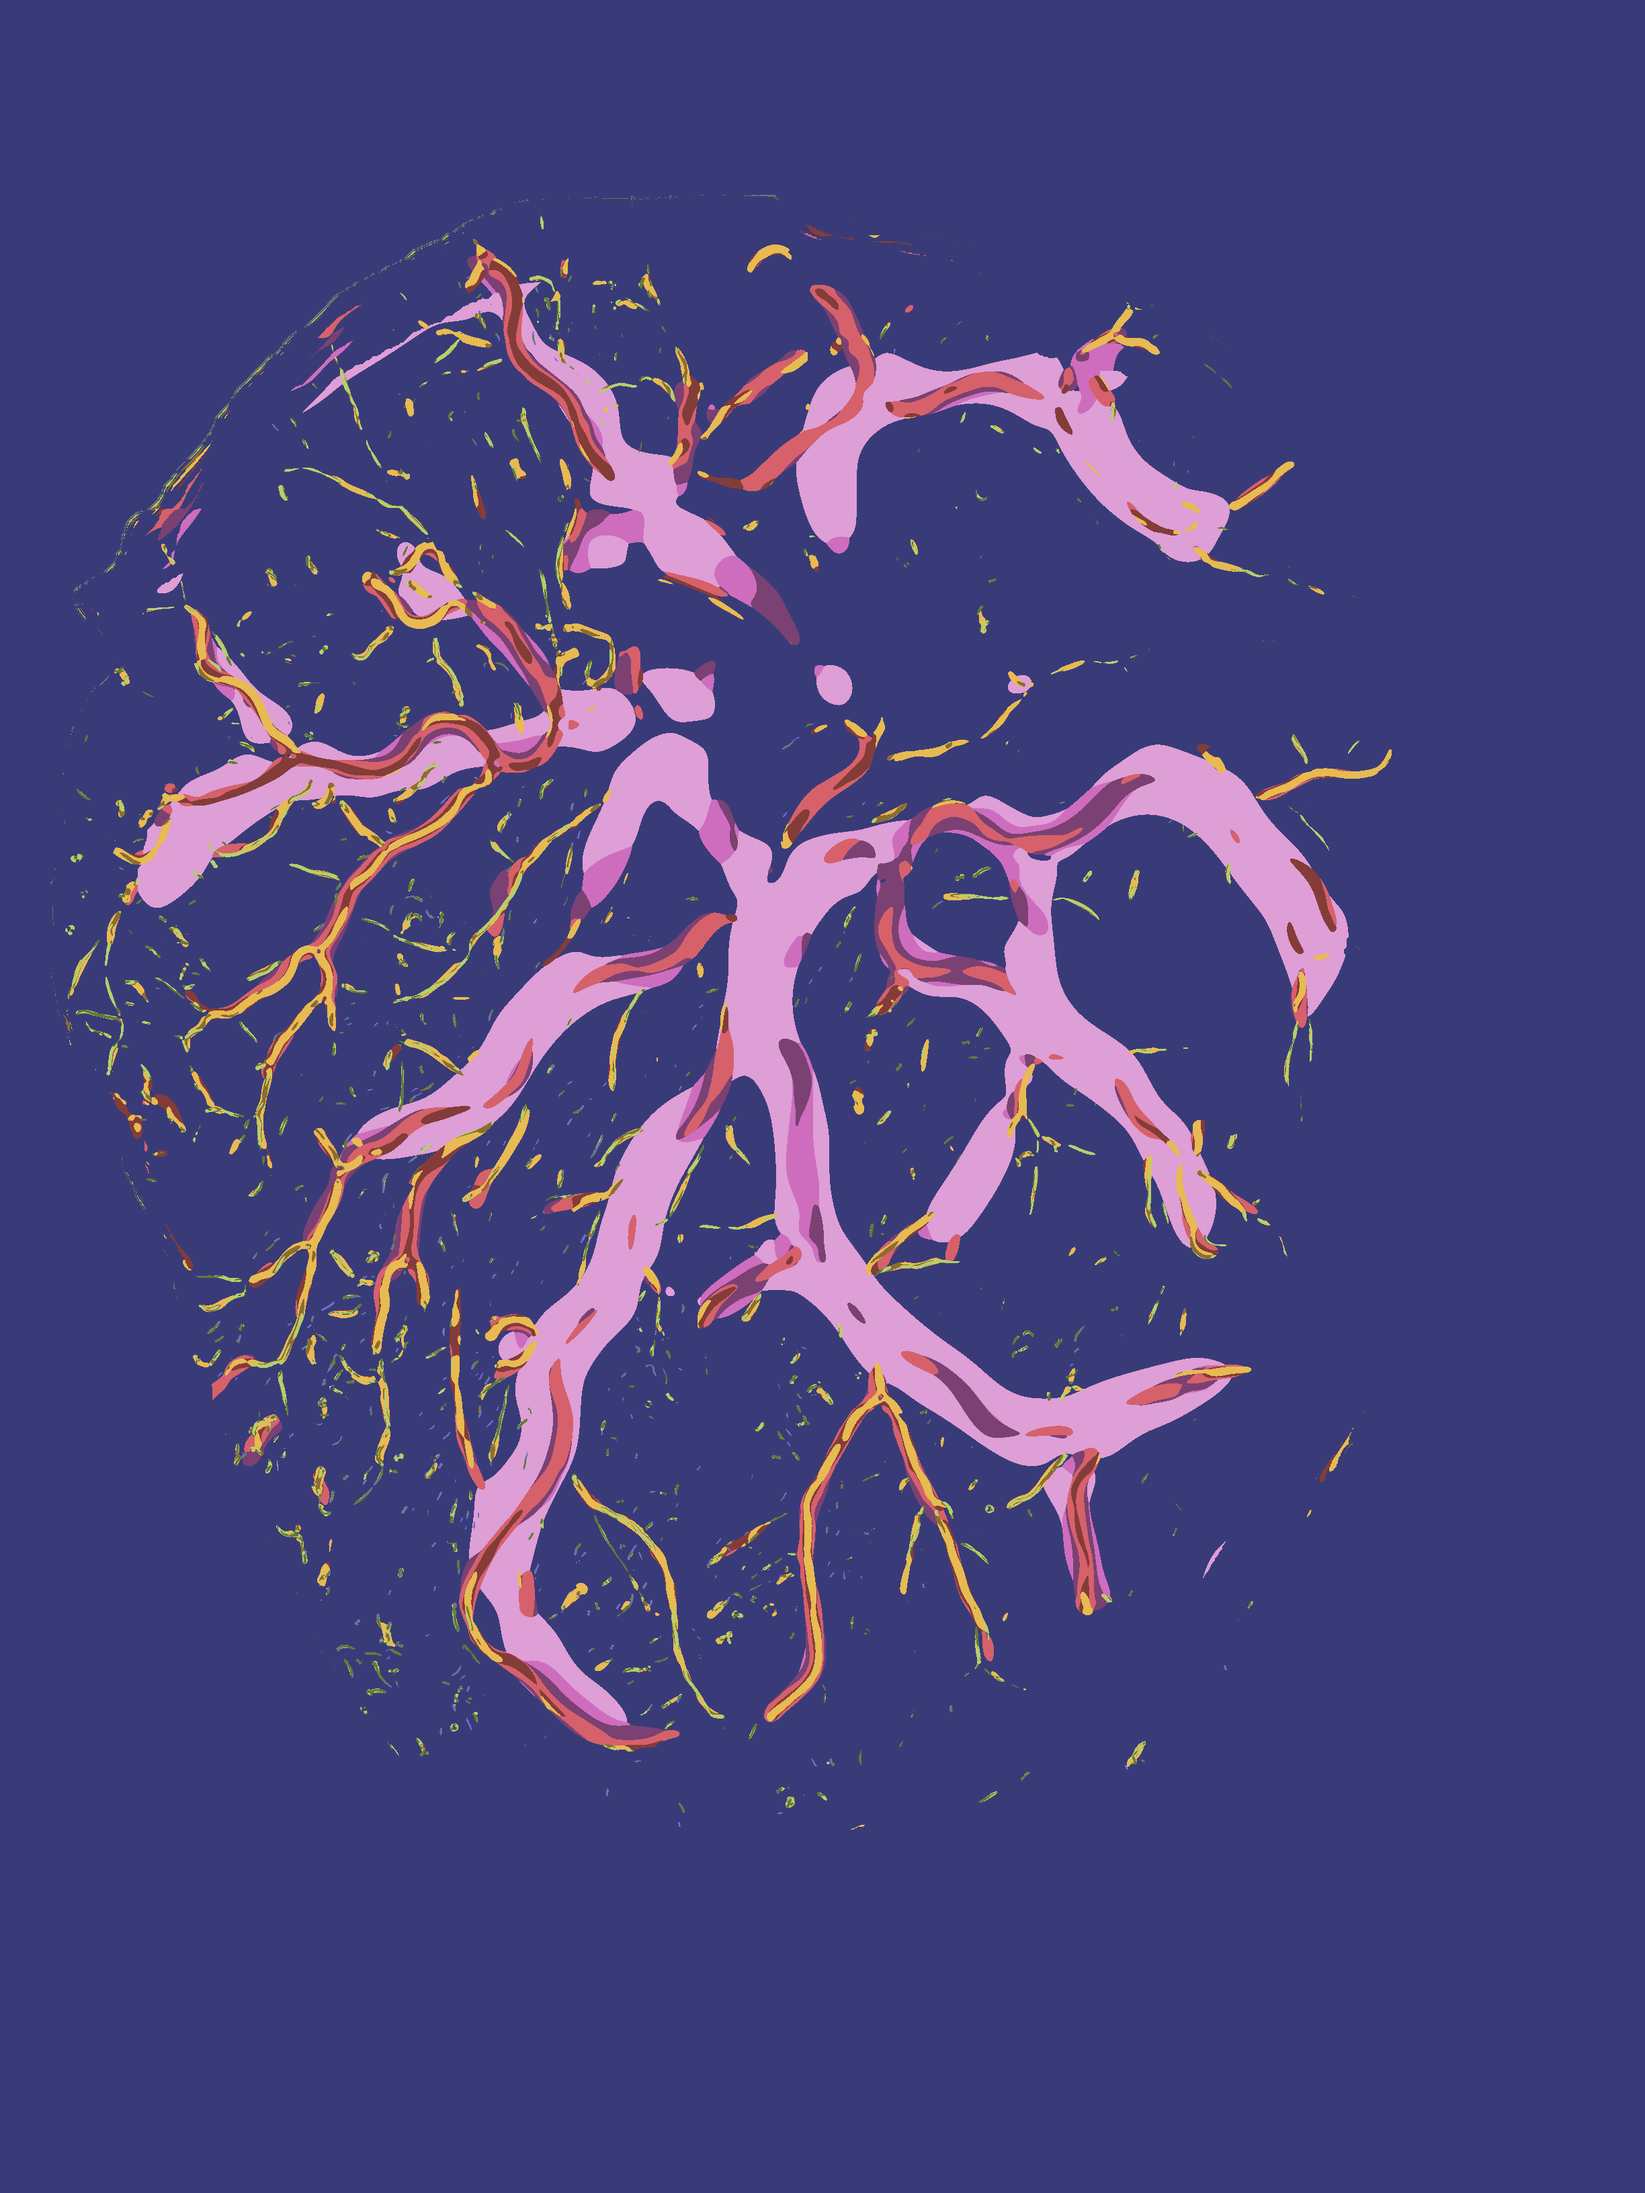
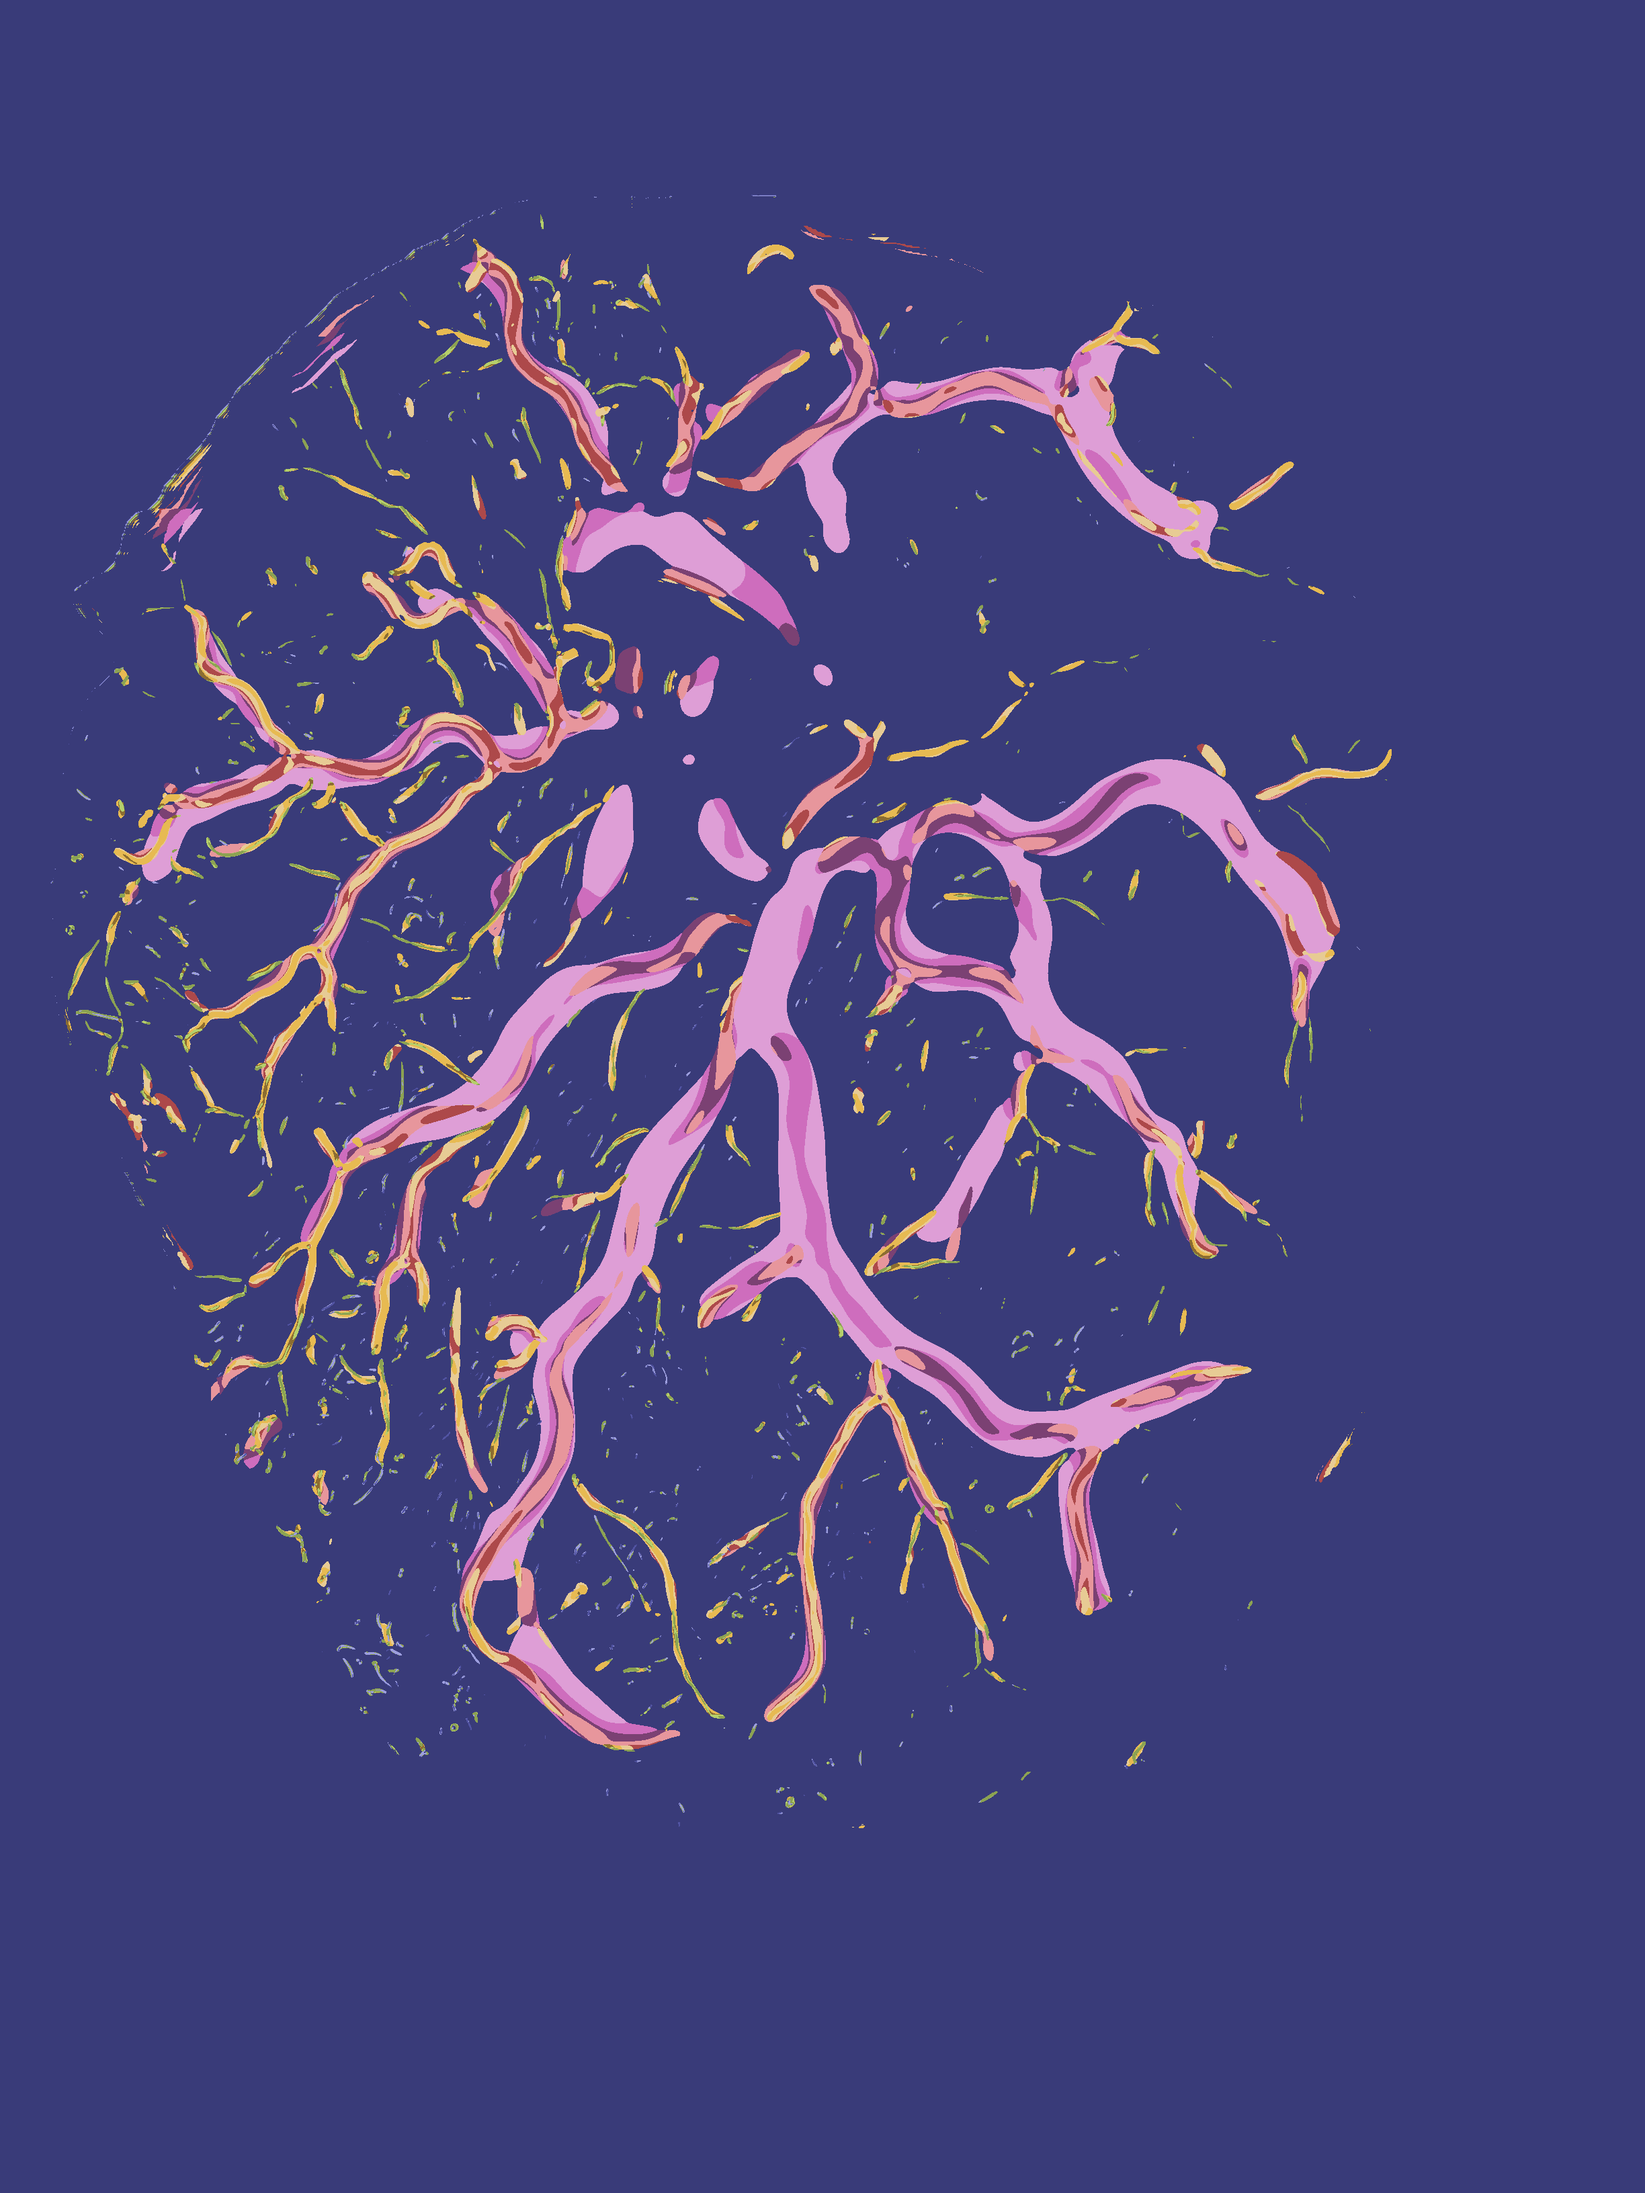
raw frangi target outputs

diff --git a/pcsvn.py b/pcsvn.py
@@ -210,8 +210,8 @@ alpha = 0.2
 
 ###Set base image#############################
 
-filename = 'barium1.png'
-#filename = 'barium2.png'
+#filename = 'barium1.png'
+filename = 'barium2.png'
 #filename = 'NYMH_ID130016u.png'
 #filename = 'NYMH_ID130016i.png'
 
@@ -229,7 +229,7 @@ bg_mask = img.mask
 ###Set Parameter(s) for Frangi#################
 
 # set range of sigmas to use (declare these above)
-scales = np.logspace(1,6, num=10, base=2)
+scales = np.logspace(1,5.5, num=12, base=2)
 
 
 # set betas (anisotropy parameters)
@@ -306,6 +306,11 @@ wheres += 1
 wheres[np.invert(matched_all)] = 0 # first label is stuff that didn't match
 wheres[F_max < alpha] = 0 # or that didn't pass the threshold
 
+# same thing w/o skeleton matching
+wheres2 = F_all.argmax(axis=-1)
+wheres2 += 1
+wheres2[F_max < alpha] = 0
+
 # Make Connected Graph
 
 pass
@@ -324,17 +329,23 @@ if __name__ == "__main__":
     imshow = plt.imshow
 
     # use a colorscheme where you can see each later clearly
-    plt.imshow(wheres, cmap=plt.cm.tab20b)
-    plt.colorbar()
-    plt.show()
+    #plt.imshow(wheres, cmap=plt.cm.tab20b)
+    #plt.colorbar()
+    #plt.show()
 
     base = os.path.basename(filename)
 
     plt.imsave(base +'_scales_whole.png', wheres, cmap=plt.cm.tab20b)
+    plt.imsave(base +'_scales_whole_noskel.png', wheres2, cmap=plt.cm.tab20b)
     plt.imsave(base +'_fmax.png', F_max.filled(0), cmap=plt.cm.Blues)
     plt.imsave(base +'_skel.png', skeletonize(F_cumulative.filled(0)),
                cmap=plt.cm.gray)
     plt.imsave(base +'_fmax_thresh.png', F_cumulative.filled(0))
+
+    plt.imshow(F_max.filled(0), cmap=plt.cm.gist_ncar)
+    plt.axis('off')
+    plt.colorbar()
+    plt.savefig(base +'_fmax.png', dpi=300)
 
     # list of each scale's frangi targets for easier introspection
     Fs = [F_all[:,:,j] for j in range(F_all.shape[-1])]
